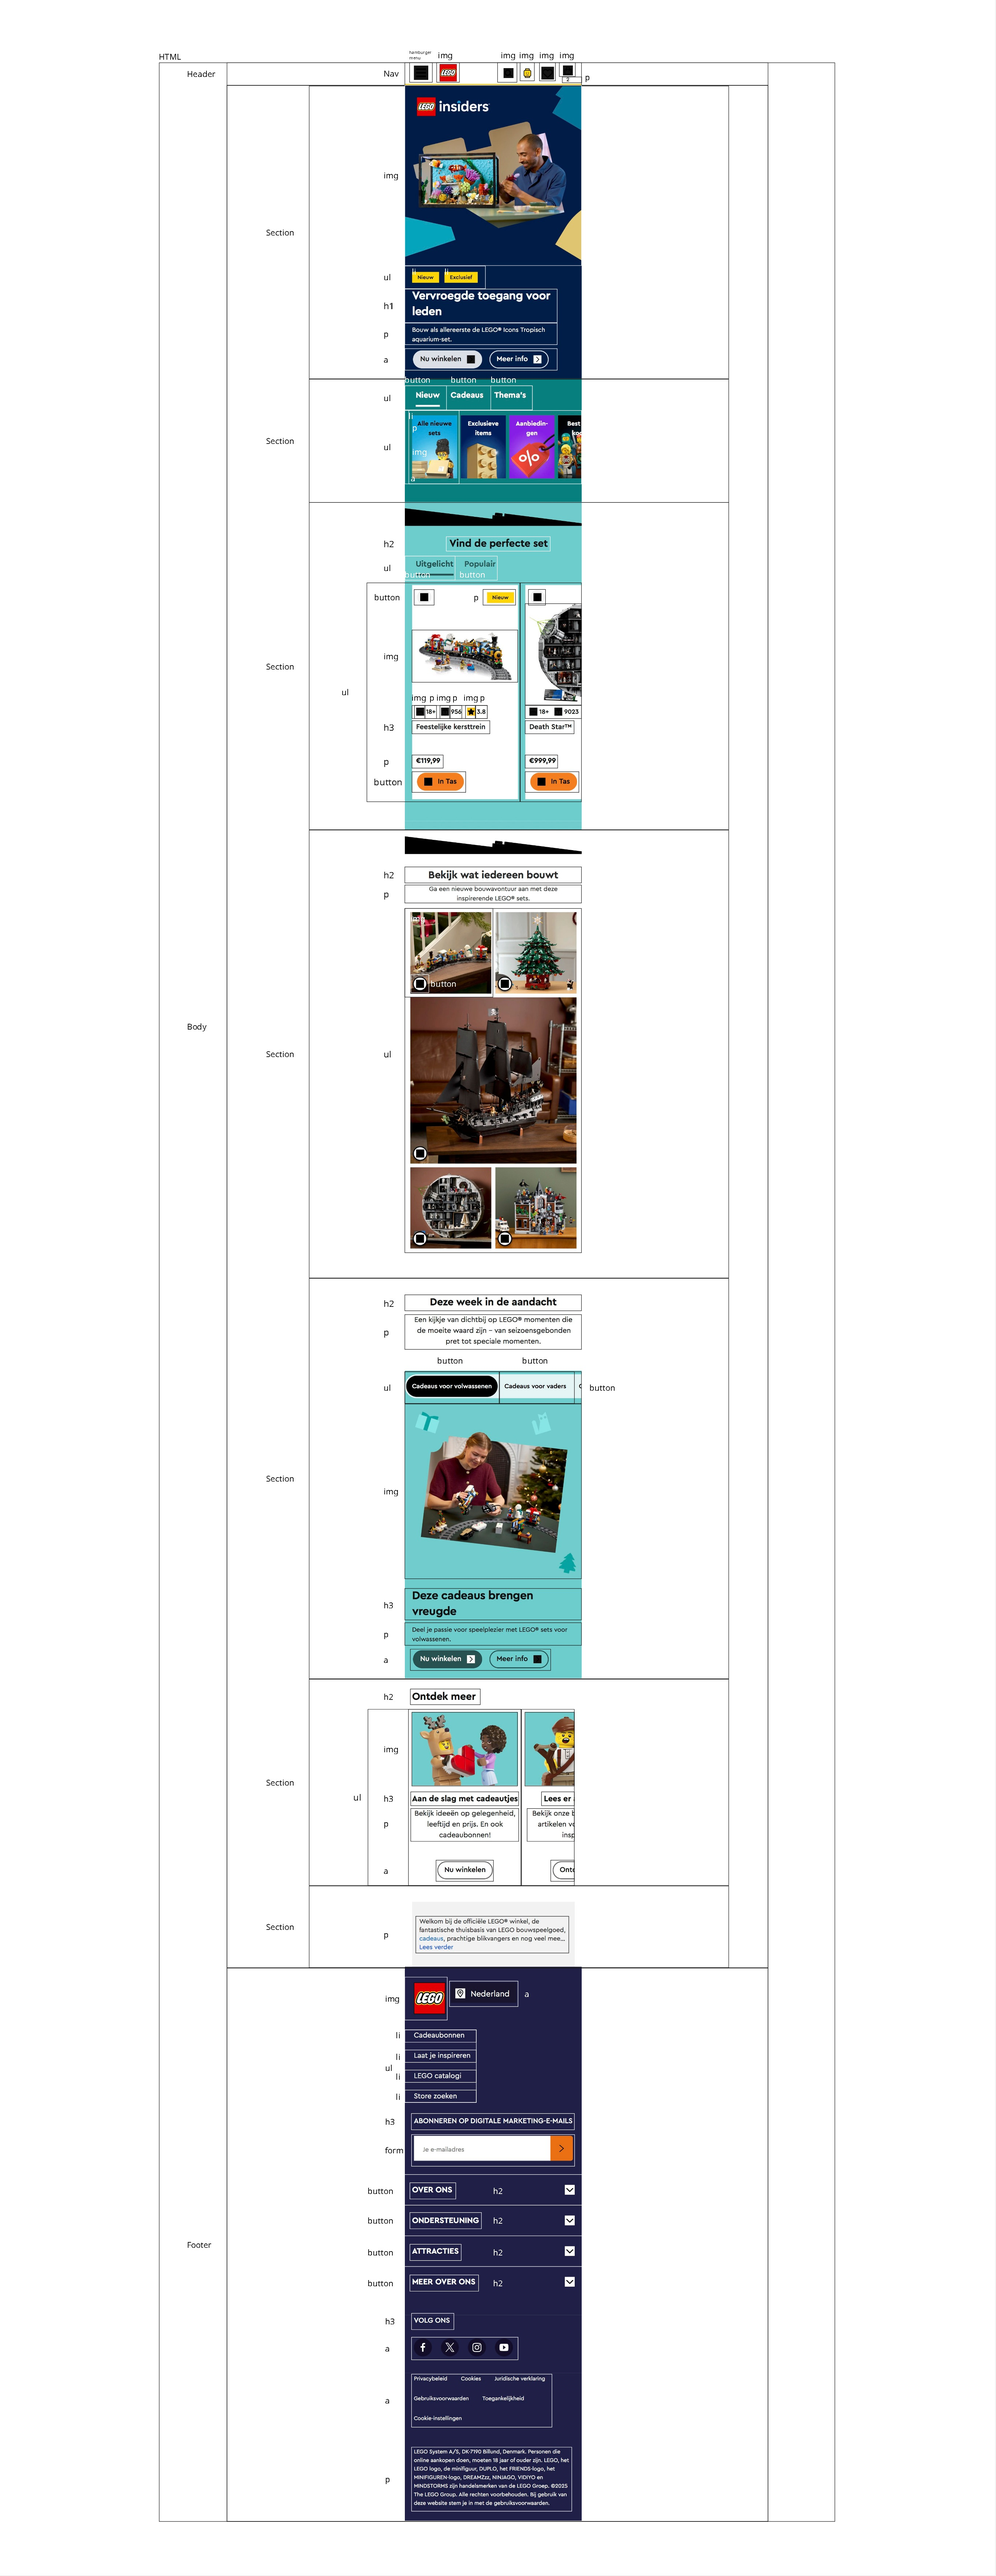
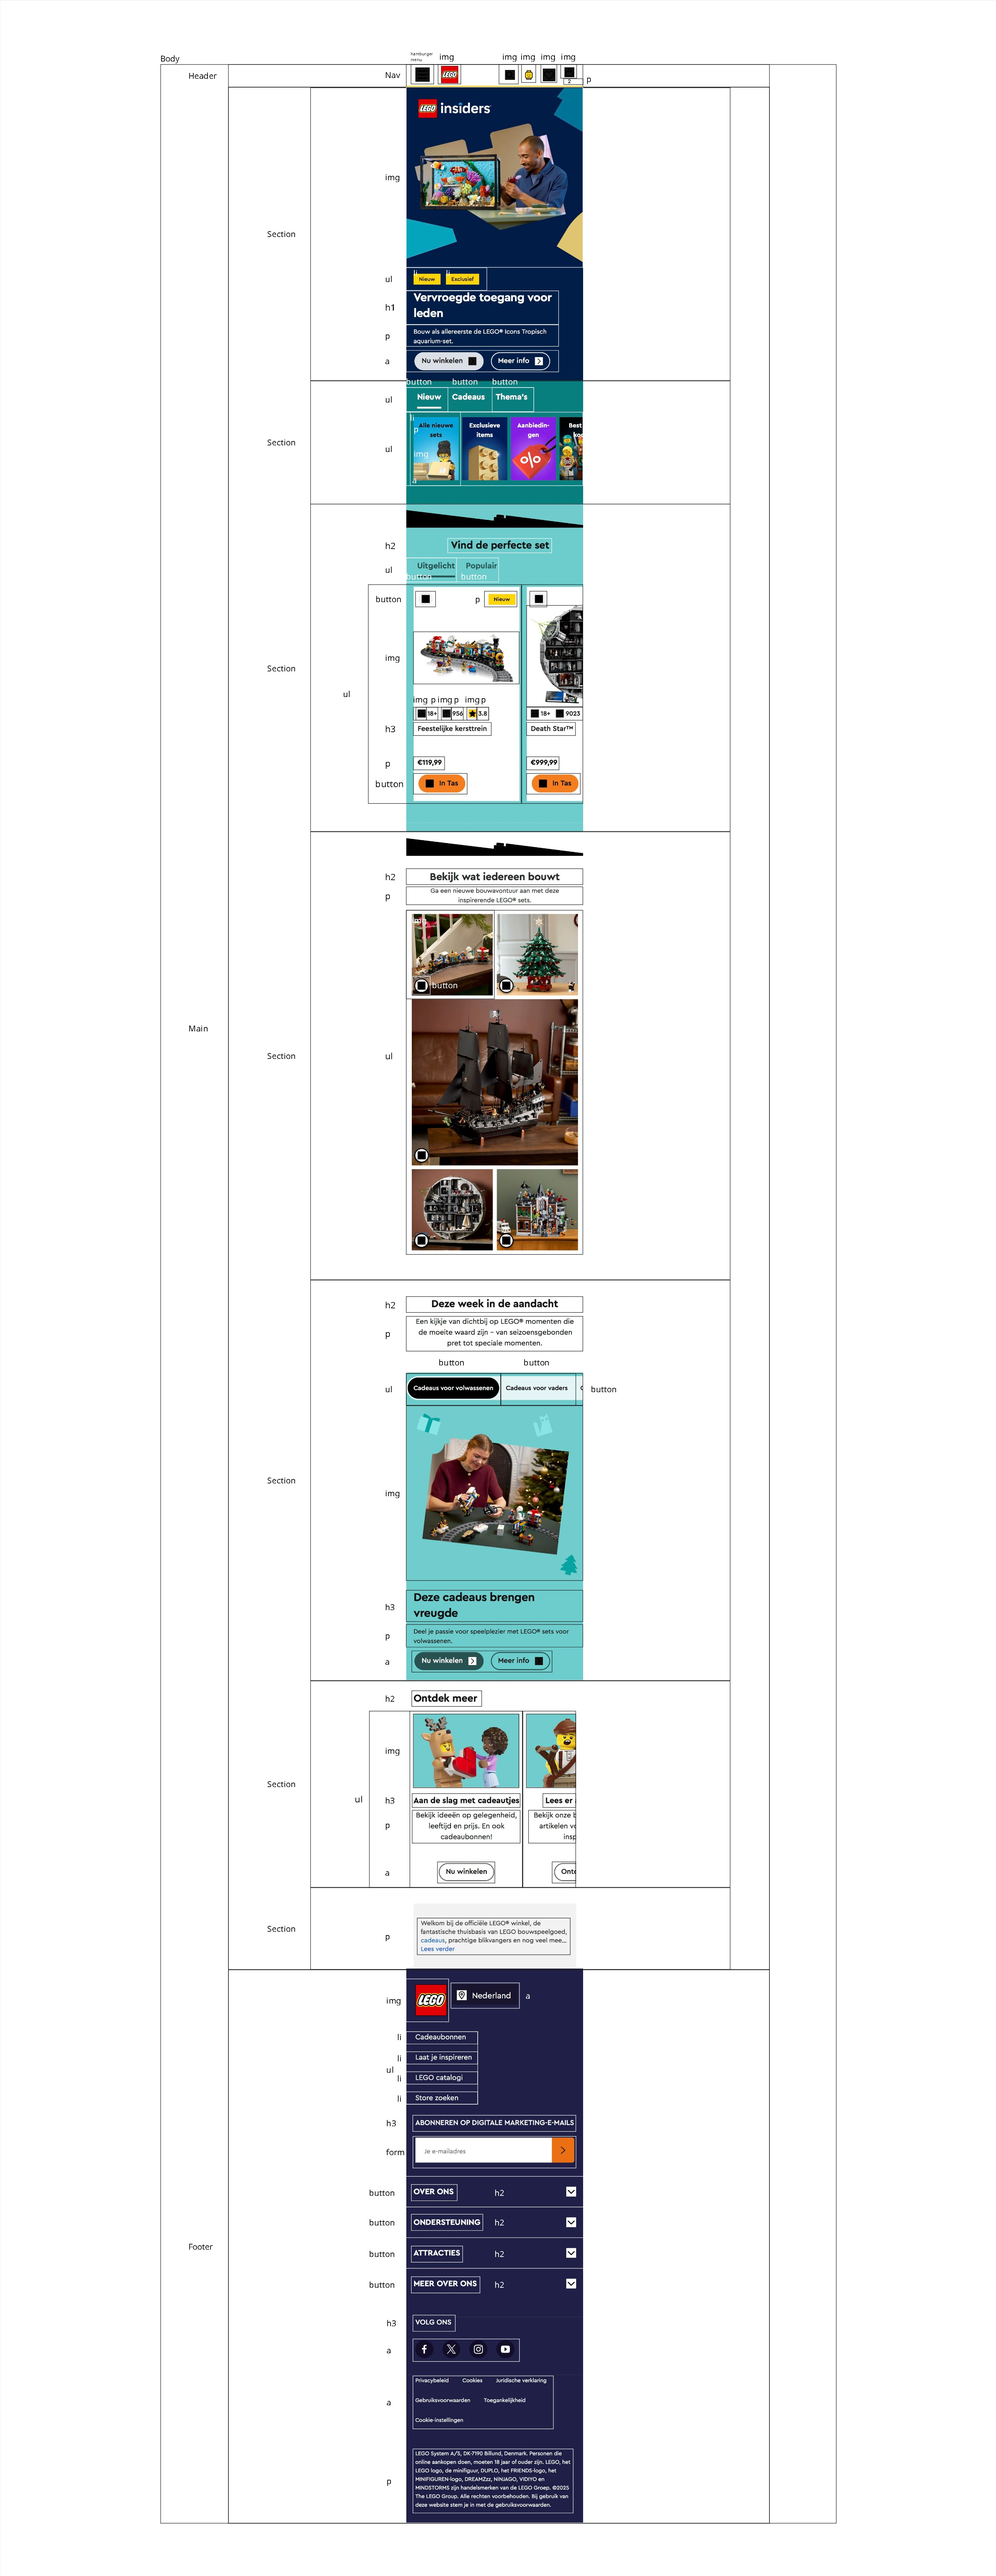
breakdownschets verbeterd

Changed region(s): [[0.4061, 0.0, 0.5935, 0.9964]]

diff --git a/index.html b/index.html
@@ -3,7 +3,7 @@
 	
 <head>
 	<meta charset="UTF-8">
-	<meta name="author" content="jouw naam">
+	<meta name="Peter van de Geer" content="Homepagina van lego.com waar alle recente updates staan en waar je geredirect kan worden naar belangrijke pagina's.">
 	<meta name="viewport" content="width=device-width, initial-scale=1">
 	
 	<title>Lego homepagina</title>
@@ -12,17 +12,25 @@
 
 	<link rel="icon" type="image/svg+xml" href="images/legologo.svg">
 </head>
-<header>
+
+<body>
+	<header>
 	<nav>
         <ul>
             <li><a href="index.html"><img src="images/legologo.svg" alt="Lego logo met link naar de homepagina"></a></li>
-            <li><a href="proces.html"><img src="images/bolletjewol.png" alt="bolletjewol"></a></li>
-            <li><a href="gereedschap.html"><img src="images/naaimachine_icoon.png" alt="naaimachineicoon"></a></li>
+            <li><a href="#"><img src="" alt=""></a></li>
+            <li><a href="#"><img src="" alt=""></a></li>
         </ul>
     </nav>
-</header>
-<body>
-	<h1>Howdy FED2526</h1>
+	</header>
+
+	<main>
+		<h1>Howdy FED2526</h1>
+	</main>
+
+	<footer>
+
+	</footer>
 
 	<script defer src="scripts/script.js"></script>
 </body>

diff --git a/styles/style.css b/styles/style.css
@@ -3,6 +3,8 @@
 /**************/
 *, *::after, *::before {
   box-sizing:border-box;  
+  padding:0;
+  margin:0;
 }
 
 
